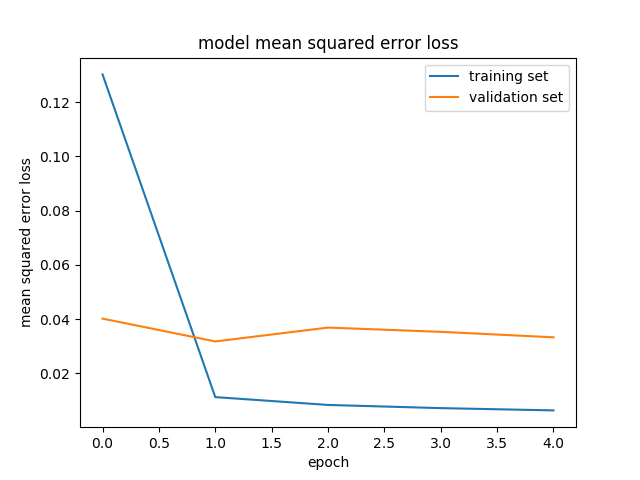
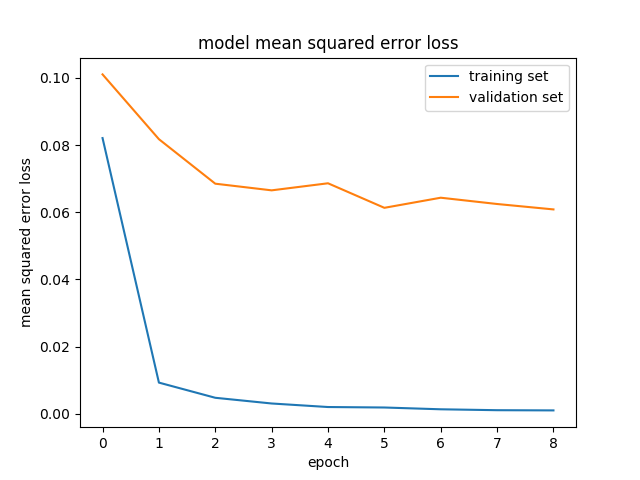
feat: Store loaded images as h5 binary data instead of npy

diff --git a/model.py b/model.py
@@ -12,12 +12,16 @@ from keras.models import Sequential, Model
 from keras.layers import Flatten, Dense, Lambda, Cropping2D, BatchNormalization
 from keras.layers.convolutional import Convolution2D
 from keras.layers.pooling import MaxPooling2D
+from keras import optimizers
 from layers import Grayscale
+import h5py
 
 # %% INPUT LOADING FUNCTIONS
-default_src = './input/'
+input_dir = './input_v1/'
+output_dir = './output/'
 if os.name == 'nt':
-    default_src = '.\\input\\'
+    input_dir = '.\\input_v1\\'
+    output_dir = '.\\output\\'
 
 
 class Data:
@@ -36,14 +40,15 @@ class Data:
 
     @classmethod
     def fromFile(self):
-        X_train = np.load("X_train.npy")
-        y_train = np.load("y_train.npy")
-        return self(X_train, y_train)
+        with h5py.File(input_dir + 'input.h5', 'r') as hf:
+            X_train = hf['X_train'][:]
+            y_train = hf['y_train'][:]
+            return self(X_train, y_train)
 
     def save(self):
-        np.save("X_train", self.X_train)
-        np.save("y_train", self.y_train)
-
+        with h5py.File(input_dir + 'input.h5', 'w') as hf:
+            hf.create_dataset("X_train",  data=self.X_train)
+            hf.create_dataset("y_train",  data=self.y_train)
 
 class Input:
     images = []
@@ -53,7 +58,7 @@ class Input:
         image = cv2.imread(image_src)
         self.__add(image, measurment)
         #Add flipped image
-        self.__add(np.fliplr(image), -measurment)
+        # self.__add(np.fliplr(image), -measurment)
 
     def __add(self, image, measurment):
         self.images.append(image)
@@ -63,7 +68,7 @@ class Input:
         return Data.fromLists(self.images, self.measurments)
 
 
-def read_input(src=default_src + 'driving_log.csv'):
+def read_input(src=input_dir + 'driving_log.csv'):
     input = Input()
     print('reading csv from ' + src)
     with open(src) as csv_file:
@@ -103,17 +108,17 @@ def save_model(model, to_file):
     model.save(to_file + '.h5')
 
 
-# %% LOAD DATA
+# %% LOAD DATA FROM CSV
 # input = read_input()
 # data = input.data()
 # data.save()
 
-# %% LOAD DATA
+# %% LOAD DATA FROM NPY
 data = Data.fromFile()
 
 # %% MAKE MODEL
 model = Sequential()
-model.add(Cropping2D(cropping=((50, 20), (0, 0)), input_shape=(160, 320, 3)))
+model.add(Cropping2D(cropping=((32, 20), (0, 0)), input_shape=(160, 320, 3)))
 model.add(Grayscale())
 model.add(
     BatchNormalization(axis=1)
@@ -129,15 +134,17 @@ model.add(Dense(100))
 model.add(Dense(50))
 model.add(Dense(10))
 model.add(Dense(1))
-plot_model(model, to_file='output/model.png', show_shapes=True)
+plot_model(model, to_file=output_dir + 'model.png', show_shapes=True)
 
 # %% COMPILE MODEL
 # model = mgpu.make_parallel(model,2) #enable parallel gpu
-model.compile(loss='mse', optimizer='adam')
+adam = optimizers.adam(lr=0.0001)
+model.compile(loss='mse', optimizer=adam)
 
 # %% RUN MODEL
 earlyStopping = EarlyStopping(
     monitor='val_loss', min_delta=0.001, patience=2, verbose=0, mode='auto')
+
 history_object = model.fit(
     data.X_train,
     data.y_train,
@@ -147,8 +154,8 @@ history_object = model.fit(
     callbacks=[earlyStopping])
 
 # %% SAVE MODEL
-plot_loss(history_object, to_file="output/loss.png")
-save_model(model, to_file="output/model")
+plot_loss(history_object, to_file=output_dir + 'loss.png')
+save_model(model, to_file=output_dir + 'model')
 
-# TO START SERVER CALL
+# TO START SERVER DO CALL
 # python drive.py output\model

diff --git a/repair_paths.py b/repair_paths.py
@@ -23,7 +23,7 @@ def main(_):
         for line in reader:
             for i in range(3):
                 line[i] = "input/IMG/" + line[i].split(slash)[-1]
-            writer.writerow(line.rstrip())
+            writer.writerow(line)
 
 
 # parses flags and calls the `main` function above
